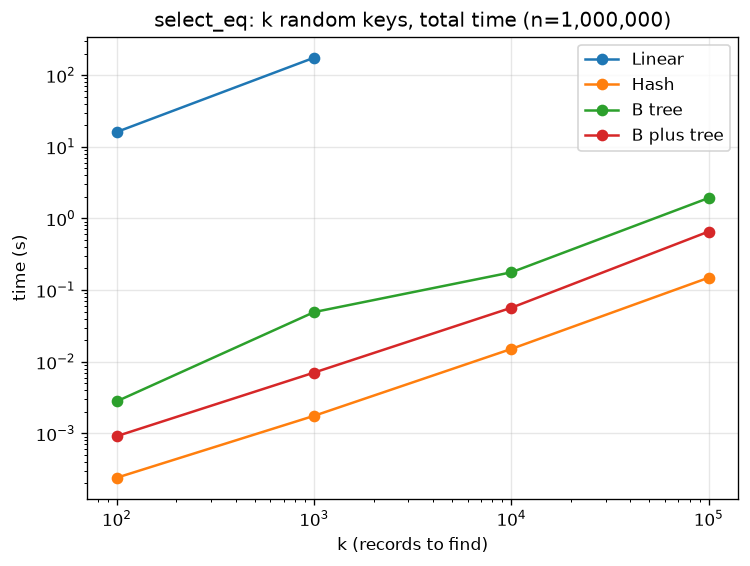
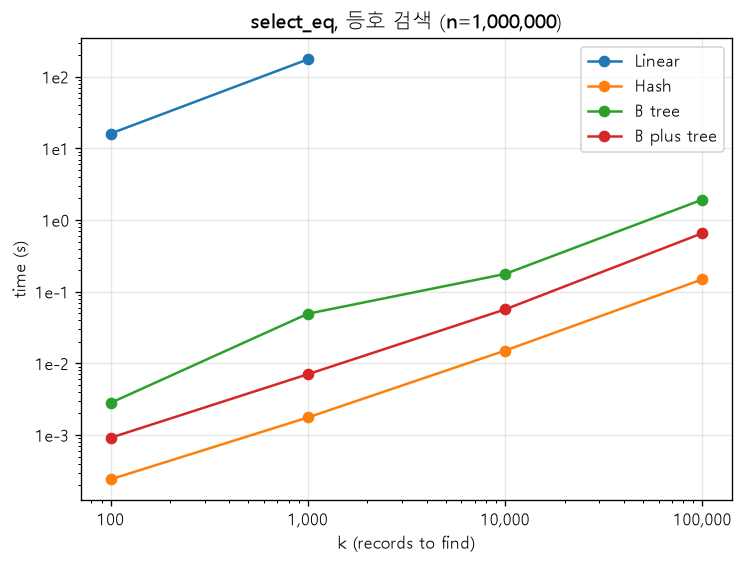
png 파일 수정

diff --git a/plot_count.py b/plot_count.py
@@ -1,4 +1,9 @@
+import math
 import matplotlib.pyplot as plt
+from matplotlib.ticker import FuncFormatter
+
+plt.rcParams["font.family"] = "Malgun Gothic"   # 한글 글꼴 (Windows)
+plt.rcParams["axes.unicode_minus"] = False      # 마이너스 기호 깨짐 방지
 
 # measure_count.py 결과 (n = 100만 고정, 찾는 개수 k만 증가)
 K = [100, 1000, 10000, 100000]
@@ -14,7 +19,7 @@ EQ = {
 # 레코드 k개가 든 범위를 한 번 검색하는 시간(초). Hash는 버킷 전체를 훑는 scan 방식이다.
 RANGE = {
     "Linear": [6.22e-01, 6.19e-01, 6.20e-01, 6.30e-01],
-    "Hash (scan)": [4.26e-01, 4.40e-01, 4.30e-01, 4.40e-01],
+    "Hash": [4.26e-01, 4.40e-01, 4.30e-01, 4.40e-01],
     "B tree": [7.05e-05, 4.66e-04, 5.05e-03, 7.58e-02],
     "B plus tree": [2.84e-05, 1.55e-04, 4.24e-03, 2.55e-02],
 }
@@ -34,6 +39,10 @@ def draw(data, title, filename):
     # 값이 1e-5 ~ 1e+2로 퍼져 있어서 로그 축을 쓴다. 기울기 = 복잡도
     plt.xscale("log")
     plt.yscale("log")
+    # 로그 눈금 숫자를 일반 글자로 쓴다 (기본 10^-4 수식 표기는 한글 글꼴에서 − 기호가 깨진다)
+    plt.xticks(K, [f"{x:,}" for x in K])
+    plt.gca().yaxis.set_major_formatter(
+        FuncFormatter(lambda v, _: f"1e{round(math.log10(v))}"))
     plt.xlabel("k (records to find)")
     plt.ylabel("time (s)")
     plt.title(title)
@@ -43,6 +52,6 @@ def draw(data, title, filename):
     print(f"saved: {filename}")
 
 
-draw(EQ, "select_eq: k random keys, total time (n=1,000,000)", "count_eq.png")
-draw(RANGE, "select_range: one range with k records (n=1,000,000)", "count_range.png")
+draw(EQ, "select_eq, 등호 검색 (n=1,000,000)", "count_eq.png")
+draw(RANGE, "select_range, 범위 검색 (n=1,000,000)", "count_range.png")
 plt.show()
